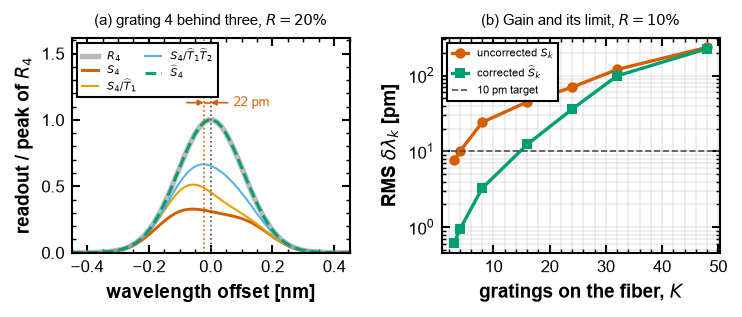
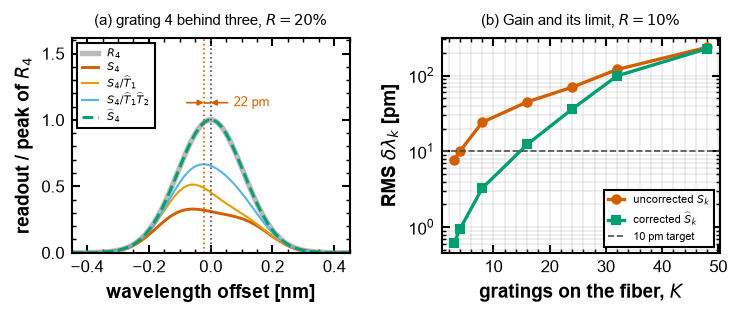
s19: legenda (a) jednokolumnowa, legenda (b) w prawym dolnym rogu

Changed region(s): [[0.093, 0.1136, 0.31, 0.4259], [0.5889, 0.1136, 0.7749, 0.3407], [0.8059, 0.5962, 0.9609, 0.795]]

diff --git a/python_selfcal_cdm/s19_deshadow.py b/python_selfcal_cdm/s19_deshadow.py
@@ -152,7 +152,7 @@ FS.dim_gap(axb, p_true / 1000.0, p_shad / 1000.0, 1.13,
 axb.set_xlim(-0.45, 0.45); axb.set_ylim(0, 1.62)
 axb.set_xlabel('wavelength offset [nm]'); axb.set_ylabel('readout / peak of $R_4$')
 axb.set_title(r'(a) grating 4 behind three, $R = 20\%$', fontsize=7)
-axb.legend(fontsize=5.5, loc='upper left', ncol=2, frameon=True,
+axb.legend(fontsize=5.5, loc='upper left', ncol=1, frameon=True,
            handlelength=1.4, columnspacing=0.7, labelspacing=0.2)
 
 # --- (b) how far it gets -----------------------------------------------------
@@ -163,7 +163,7 @@ axc.axhline(10.0, color='0.3', ls='--', lw=0.8, label='10 pm target')
 axc.set_xlabel('gratings on the fiber, $K$')
 axc.set_ylabel('RMS $\\delta\\lambda_k$ [pm]')
 axc.set_title(r'(b) Gain and its limit, $R = 10\%$', fontsize=7)
-axc.legend(fontsize=5.5, loc='upper left',
+axc.legend(fontsize=5.5, loc='lower right',
            ncol=1, frameon=True, handlelength=1.4, columnspacing=0.65)
 axc.grid(False, which='both', alpha=0.25)
 
